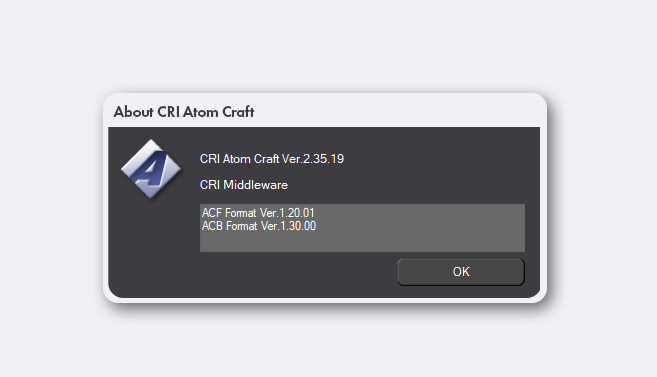
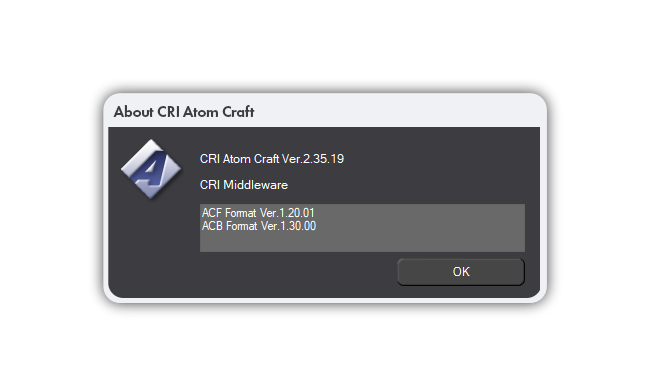
Update README + Images

Changed region(s): [[0.1522, 0.2334, 0.8828, 0.8753]]

diff --git a/README.md b/README.md
@@ -32,12 +32,16 @@ ATMC projects by default are created in  `~/Documents/CriAtomCraft/`, which func
 **Expect large files on build!** The .WAV files present are already large to avoid build artifacts from double compression. Reserve at least 3 Gigabytes for ATMC and this repo. 
 
 ## Compatibility
-This project is intended for fiber, but can theoretically be retrofitted for PS3, PS4, Switch, and Xbox. For versions of Persona 5 Royal released prior to fiber, some Cue IDs will be misaligned and the Project Encryption Key will need to be changed. 
+This project is intended for fiber, but can theoretically be retrofitted for PS3, PS4, Switch, and Xbox. 
+For versions of Persona 5 Royal released prior to fiber, some Cue IDs will be misaligned and the Project Encryption Key will need to be changed. 
 For base Persona 5, most .ACB files contained are completely different and will not function at all. While unlikely to cause fatal crashes, this repo should only serve as reference material for non-Royal versions.
 
 ## Testing
 To verify Cue ID and Player / Voice configuration in-game, download [Ryo Framework](https://gamebanana.com/mods/549032) and toggle on "Developer Mode" in the Mod Settings to see Cue Triggers being printed to conhost.
+
 To verify the integrity of the project with any other version of ATMC, select Build from the Global Settings window and select Build Only ACF, the .ACF exported to /xrd744 should match byte for byte with the vanilla fiber .ACF file. 
+
+Audio files can be read via [CriAtomViewer](https://game.criware.jp/manual/native/adx2_en/latest/criatom_tools_criatomviewer_about.html), but note that most features like Local AISAC, Subsequences, Track Events, etc. are not displayed. For more accurate analysis, this project was made alongside a lightly modified build of [AtomicAudio](https://github.com/DarkPsydeOfTheMoon/AtomicAudio).   
 
 ## Stream Indexing
 ATMC assigns a Wave Index to files queued for conversion partially via *filename length*, so recreations of vanilla .ACB files should use tools like [AtomicAudio](https://github.com/DarkPsydeOfTheMoon/AtomicAudio) or [SonicAudioTools](https://github.com/blueskythlikesclouds/SonicAudioTools) to extract streams with their Wave Index as a filename and **MAKE SURE** to pad their ID's to a uniform character count, i.e: 
